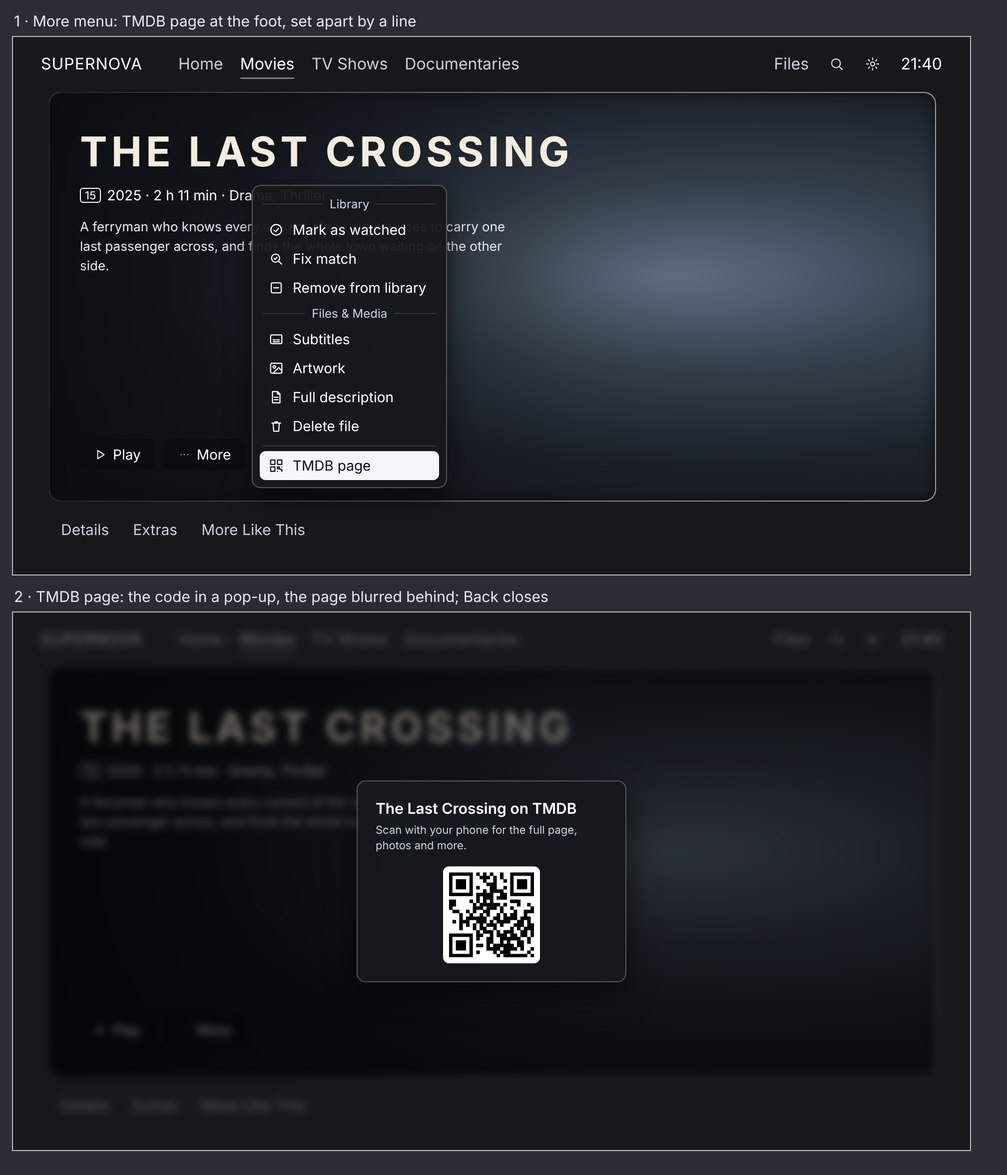
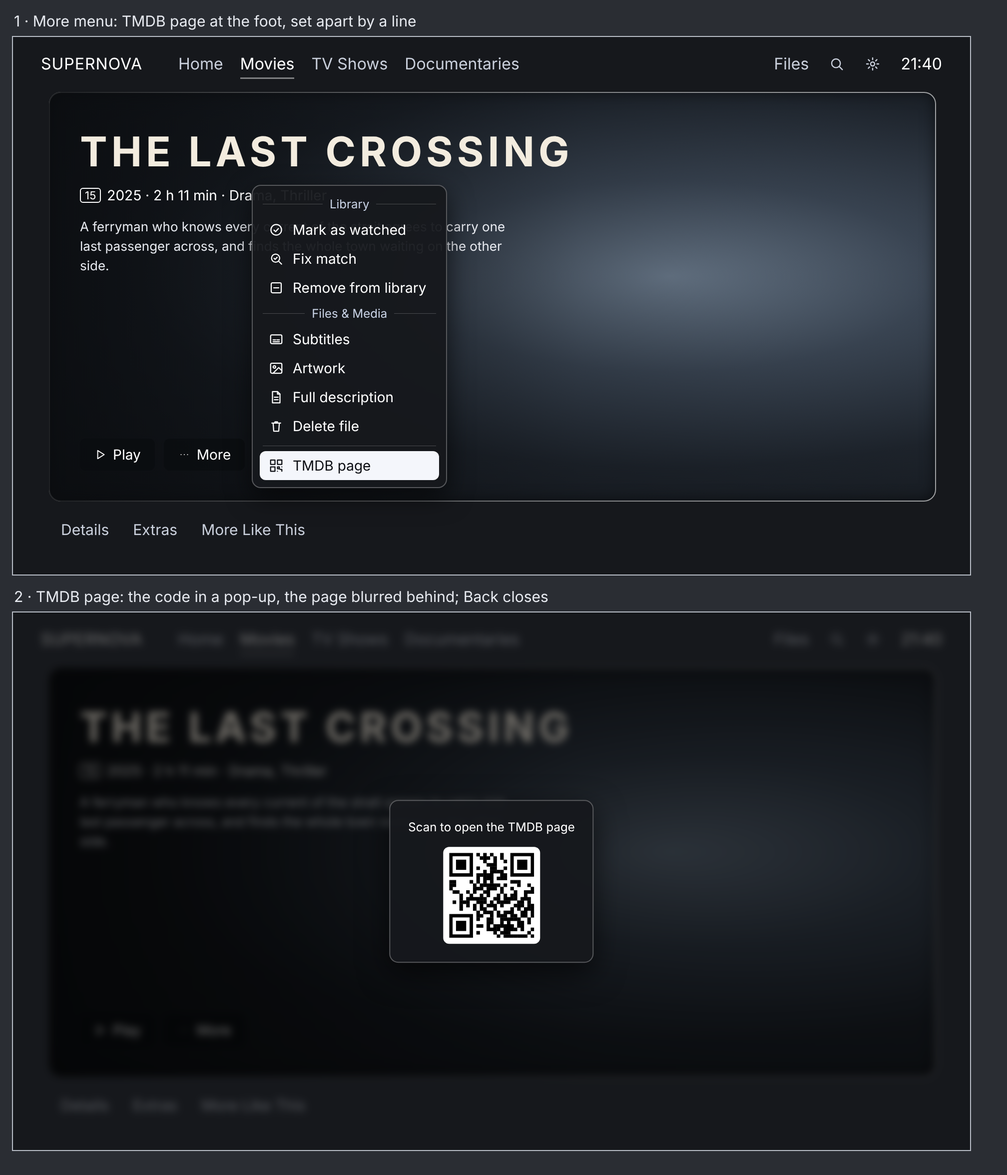
TMDB page pop-up approved: one line and the code
Claude-Session: https://claude.ai/code/session_01FtDZqZQ21LuRxMW43LCXTy

Changed region(s): [[0.375, 0.6828, 0.5938, 0.838]]

diff --git a/docs/design/proposals/files-review-0157-1/mock7.html b/docs/design/proposals/files-review-0157-1/mock7.html
@@ -22,10 +22,10 @@ background:radial-gradient(ellipse at 70% 45%,#6d7d8f 0%,#3a4553 30%,#1d232b 60%
 .gh{display:flex;align-items:center;gap:14px;font-size:24px;color:#C9D3E6;margin:8px 6px}.gh:before,.gh:after{content:"";flex:1;height:1px;background:rgba(255,255,255,.22)}
 .sep{height:1px;background:rgba(255,255,255,.22);margin:10px 6px}
 .blur{position:absolute;inset:0;filter:blur(8px) brightness(.45)}
-.pop{position:absolute;left:50%;top:50%;transform:translate(-50%,-50%);width:540px;background:rgba(22,24,28,.95);border:2px solid rgba(255,255,255,.28);border-radius:18px;padding:36px;box-shadow:0 20px 60px rgba(0,0,0,.6)}
+.pop{position:absolute;left:50%;top:50%;transform:translate(-50%,-50%);width:auto;background:rgba(22,24,28,.95);border:2px solid rgba(255,255,255,.28);border-radius:18px;padding:36px;box-shadow:0 20px 60px rgba(0,0,0,.6)}
 .pop h3{font-size:30px;font-weight:600}.pop p{font-size:22px;color:#C9D3E6;margin:10px 0 26px;line-height:1.4}
 .qr{background:#fff;border-radius:12px;display:flex;align-items:center;justify-content:center;margin:0 auto}
-</style></head><body><p class="cap">1 · More menu: TMDB page at the foot, set apart by a line</p><div class="frame"><div class="top"><span class="b">SUPERNOVA</span><span class="pl"><span>Home</span><span class="on">Movies</span><span>TV Shows</span><span>Documentaries</span></span><span class="r"><span>Files</span><svg width="32" height="32" viewBox="0 0 24 24"><circle cx="11" cy="11" r="6.5"/><path d="M16 16l4.5 4.5"/></svg><svg width="32" height="32" viewBox="0 0 24 24"><circle cx="12" cy="12" r="3"/><path d="M12 3v2.5M12 18.5V21M3 12h2.5M18.5 12H21M5.6 5.6l1.8 1.8M16.6 16.6l1.8 1.8M5.6 18.4l1.8-1.8M16.6 7.4l1.8-1.8"/></svg><span style="color:#fff">21:40</span></span></div>
+.pop .one{font-size:24px;color:#fff;margin:0 0 22px;text-align:center;white-space:nowrap}</style></head><body><p class="cap">1 · More menu: TMDB page at the foot, set apart by a line</p><div class="frame"><div class="top"><span class="b">SUPERNOVA</span><span class="pl"><span>Home</span><span class="on">Movies</span><span>TV Shows</span><span>Documentaries</span></span><span class="r"><span>Files</span><svg width="32" height="32" viewBox="0 0 24 24"><circle cx="11" cy="11" r="6.5"/><path d="M16 16l4.5 4.5"/></svg><svg width="32" height="32" viewBox="0 0 24 24"><circle cx="12" cy="12" r="3"/><path d="M12 3v2.5M12 18.5V21M3 12h2.5M18.5 12H21M5.6 5.6l1.8 1.8M16.6 16.6l1.8 1.8M5.6 18.4l1.8-1.8M16.6 7.4l1.8-1.8"/></svg><span style="color:#fff">21:40</span></span></div>
 <div class="hero"><div class="shade"></div><div class="logo">THE LAST CROSSING</div>
 <div class="meta"><span class="badge">15</span>2025 · 2 h 11 min · Drama, Thriller</div>
 <div class="desc">A ferryman who knows every current of the strait agrees to carry one last passenger across, and finds the whole town waiting on the other side.</div>
@@ -40,4 +40,4 @@ background:radial-gradient(ellipse at 70% 45%,#6d7d8f 0%,#3a4553 30%,#1d232b 60%
 <div class="meta"><span class="badge">15</span>2025 · 2 h 11 min · Drama, Thriller</div>
 <div class="desc">A ferryman who knows every current of the strait agrees to carry one last passenger across, and finds the whole town waiting on the other side.</div>
 <div class="btns"><div class="btn"><svg width="26" height="26" viewBox="0 0 24 24"><path d="M7 4.5v15l12-7.5z"/></svg>Play</div><div class="btn"><svg width="26" height="26" viewBox="0 0 24 24"><path d="M6 12h.01M12 12h.01M18 12h.01"/></svg>More</div></div></div>
-<div class="tabs"><span>Details</span><span>Extras</span><span>More Like This</span></div></div><div class="pop"><h3>The Last Crossing on TMDB</h3><p>Scan with your phone for the full page, photos and more.</p><div class="qr" style="width:194px;height:194px"><svg width="170" height="170" style="stroke:none"><rect x="0.00" y="54.40" width="7.10" height="7.10" fill="#000"/><rect x="0.00" y="61.20" width="7.10" height="7.10" fill="#000"/><rect x="0.00" y="68.00" width="7.10" height="7.10" fill="#000"/><rect x="6.80" y="54.40" width="7.10" height="7.10" fill="#000"/><rect x="6.80" y="61.20" width="7.10" height="7.10" fill="#000"/><rect x="6.80" y="74.80" width="7.10" height="7.10" fill="#000"/><rect x="6.80" y="95.20" width="7.10" height="7.10" fill="#000"/><rect x="13.60" y="74.80" width="7.10" height="7.10" fill="#000"/><rect x="20.40" y="81.60" width="7.10" height="7.10" fill="#000"/><rect x="20.40" y="88.40" width="7.10" height="7.10" fill="#000"/><rect x="20.40" y="95.20" width="7.10" height="7.10" fill="#000"/><rect x="20.40" y="102.00" width="7.10" height="7.10" fill="#000"/><rect x="20.40" y="108.80" width="7.10" height="7.10" fill="#000"/><rect x="27.20" y="95.20" width="7.10" height="7.10" fill="#000"/><rect x="34.00" y="74.80" width="7.10" height="7.10" fill="#000"/><rect x="34.00" y="88.40" width="7.10" height="7.10" fill="#000"/><rect x="34.00" y="95.20" width="7.10" height="7.10" fill="#000"/><rect x="34.00" y="102.00" width="7.10" height="7.10" fill="#000"/><rect x="40.80" y="54.40" width="7.10" height="7.10" fill="#000"/><rect x="40.80" y="81.60" width="7.10" height="7.10" fill="#000"/><rect x="40.80" y="88.40" width="7.10" height="7.10" fill="#000"/><rect x="47.60" y="61.20" width="7.10" height="7.10" fill="#000"/><rect x="47.60" y="68.00" width="7.10" height="7.10" fill="#000"/><rect x="47.60" y="74.80" width="7.10" height="7.10" fill="#000"/><rect x="47.60" y="88.40" width="7.10" height="7.10" fill="#000"/><rect x="47.60" y="102.00" width="7.10" height="7.10" fill="#000"/><rect x="47.60" y="108.80" width="7.10" height="7.10" fill="#000"/><rect x="54.40" y="0.00" width="7.10" height="7.10" fill="#000"/><rect x="54.40" y="27.20" width="7.10" height="7.10" fill="#000"/><rect x="54.40" y="40.80" width="7.10" height="7.10" fill="#000"/><rect x="54.40" y="47.60" width="7.10" height="7.10" fill="#000"/><rect x="54.40" y="54.40" width="7.10" height="7.10" fill="#000"/><rect x="54.40" y="68.00" width="7.10" height="7.10" fill="#000"/><rect x="54.40" y="88.40" width="7.10" height="7.10" fill="#000"/><rect x="54.40" y="95.20" width="7.10" height="7.10" fill="#000"/><rect x="54.40" y="115.60" width="7.10" height="7.10" fill="#000"/><rect x="54.40" y="122.40" width="7.10" height="7.10" fill="#000"/><rect x="54.40" y="129.20" width="7.10" height="7.10" fill="#000"/><rect x="54.40" y="142.80" width="7.10" height="7.10" fill="#000"/><rect x="54.40" y="156.40" width="7.10" height="7.10" fill="#000"/><rect x="61.20" y="6.80" width="7.10" height="7.10" fill="#000"/><rect x="61.20" y="40.80" width="7.10" height="7.10" fill="#000"/><rect x="61.20" y="61.20" width="7.10" height="7.10" fill="#000"/><rect x="61.20" y="68.00" width="7.10" height="7.10" fill="#000"/><rect x="61.20" y="81.60" width="7.10" height="7.10" fill="#000"/><rect x="61.20" y="88.40" width="7.10" height="7.10" fill="#000"/><rect x="61.20" y="95.20" width="7.10" height="7.10" fill="#000"/><rect x="61.20" y="102.00" width="7.10" height="7.10" fill="#000"/><rect x="61.20" y="108.80" width="7.10" height="7.10" fill="#000"/><rect x="61.20" y="122.40" width="7.10" height="7.10" fill="#000"/><rect x="61.20" y="142.80" width="7.10" height="7.10" fill="#000"/><rect x="68.00" y="0.00" width="7.10" height="7.10" fill="#000"/><rect x="68.00" y="6.80" width="7.10" height="7.10" fill="#000"/><rect x="68.00" y="13.60" width="7.10" height="7.10" fill="#000"/><rect x="68.00" y="34.00" width="7.10" height="7.10" fill="#000"/><rect x="68.00" y="40.80" width="7.10" height="7.10" fill="#000"/><rect x="68.00" y="47.60" width="7.10" height="7.10" fill="#000"/><rect x="68.00" y="54.40" width="7.10" height="7.10" fill="#000"/><rect x="68.00" y="61.20" width="7.10" height="7.10" fill="#000"/><rect x="68.00" y="74.80" width="7.10" height="7.10" fill="#000"/><rect x="68.00" y="88.40" width="7.10" height="7.10" fill="#000"/><rect x="68.00" y="95.20" width="7.10" height="7.10" fill="#000"/><rect x="68.00" y="108.80" width="7.10" height="7.10" fill="#000"/><rect x="68.00" y="115.60" width="7.10" height="7.10" fill="#000"/><rect x="74.80" y="6.80" width="7.10" height="7.10" fill="#000"/><rect x="74.80" y="20.40" width="7.10" height="7.10" fill="#000"/><rect x="74.80" y="40.80" width="7.10" height="7.10" fill="#000"/><rect x="74.80" y="47.60" width="7.10" height="7.10" fill="#000"/><rect x="74.80" y="61.20" width="7.10" height="7.10" fill="#000"/><rect x="74.80" y="68.00" width="7.10" height="7.10" fill="#000"/><rect x="74.80" y="74.80" width="7.10" height="7.10" fill="#000"/><rect x="74.80" y="81.60" width="7.10" height="7.10" fill="#000"/><rect x="74.80" y="102.00" width="7.10" height="7.10" fill="#000"/><rect x="74.80" y="115.60" width="7.10" height="7.10" fill="#000"/><rect x="74.80" y="129.20" width="7.10" height="7.10" fill="#000"/><rect x="74.80" y="136.00" width="7.10" height="7.10" fill="#000"/><rect x="74.80" y="142.80" width="7.10" height="7.10" fill="#000"/><rect x="74.80" y="149.60" width="7.10" height="7.10" fill="#000"/><rect x="81.60" y="0.00" width="7.10" height="7.10" fill="#000"/><rect x="81.60" y="20.40" width="7.10" height="7.10" fill="#000"/><rect x="81.60" y="27.20" width="7.10" height="7.10" fill="#000"/><rect x="81.60" y="34.00" width="7.10" height="7.10" fill="#000"/><rect x="81.60" y="40.80" width="7.10" height="7.10" fill="#000"/><rect x="81.60" y="47.60" width="7.10" height="7.10" fill="#000"/><rect x="81.60" y="54.40" width="7.10" height="7.10" fill="#000"/><rect x="81.60" y="61.20" width="7.10" height="7.10" fill="#000"/><rect x="81.60" y="68.00" width="7.10" height="7.10" fill="#000"/><rect x="81.60" y="95.20" width="7.10" height="7.10" fill="#000"/><rect x="81.60" y="102.00" width="7.10" height="7.10" fill="#000"/><rect x="81.60" y="115.60" width="7.10" height="7.10" fill="#000"/><rect x="81.60" y="122.40" width="7.10" height="7.10" fill="#000"/><rect x="81.60" y="129.20" width="7.10" height="7.10" fill="#000"/><rect x="81.60" y="136.00" width="7.10" height="7.10" fill="#000"/><rect x="81.60" y="149.60" width="7.10" height="7.10" fill="#000"/><rect x="88.40" y="6.80" width="7.10" height="7.10" fill="#000"/><rect x="88.40" y="13.60" width="7.10" height="7.10" fill="#000"/><rect x="88.40" y="20.40" width="7.10" height="7.10" fill="#000"/><rect x="88.40" y="27.20" width="7.10" height="7.10" fill="#000"/><rect x="88.40" y="34.00" width="7.10" height="7.10" fill="#000"/><rect x="88.40" y="61.20" width="7.10" height="7.10" fill="#000"/><rect x="88.40" y="68.00" width="7.10" height="7.10" fill="#000"/><rect x="88.40" y="88.40" width="7.10" height="7.10" fill="#000"/><rect x="88.40" y="102.00" width="7.10" height="7.10" fill="#000"/><rect x="88.40" y="108.80" width="7.10" height="7.10" fill="#000"/><rect x="88.40" y="142.80" width="7.10" height="7.10" fill="#000"/><rect x="88.40" y="149.60" width="7.10" height="7.10" fill="#000"/><rect x="88.40" y="156.40" width="7.10" height="7.10" fill="#000"/><rect x="95.20" y="34.00" width="7.10" height="7.10" fill="#000"/><rect x="95.20" y="47.60" width="7.10" height="7.10" fill="#000"/><rect x="95.20" y="61.20" width="7.10" height="7.10" fill="#000"/><rect x="95.20" y="81.60" width="7.10" height="7.10" fill="#000"/><rect x="95.20" y="88.40" width="7.10" height="7.10" fill="#000"/><rect x="95.20" y="95.20" width="7.10" height="7.10" fill="#000"/><rect x="95.20" y="115.60" width="7.10" height="7.10" fill="#000"/><rect x="95.20" y="122.40" width="7.10" height="7.10" fill="#000"/><rect x="95.20" y="142.80" width="7.10" height="7.10" fill="#000"/><rect x="95.20" y="149.60" width="7.10" height="7.10" fill="#000"/><rect x="95.20" y="163.20" width="7.10" height="7.10" fill="#000"/><rect x="102.00" y="0.00" width="7.10" height="7.10" fill="#000"/><rect x="102.00" y="6.80" width="7.10" height="7.10" fill="#000"/><rect x="102.00" y="34.00" width="7.10" height="7.10" fill="#000"/><rect x="102.00" y="40.80" width="7.10" height="7.10" fill="#000"/><rect x="102.00" y="47.60" width="7.10" height="7.10" fill="#000"/><rect x="102.00" y="68.00" width="7.10" height="7.10" fill="#000"/><rect x="102.00" y="74.80" width="7.10" height="7.10" fill="#000"/><rect x="102.00" y="95.20" width="7.10" height="7.10" fill="#000"/><rect x="102.00" y="102.00" width="7.10" height="7.10" fill="#000"/><rect x="102.00" y="122.40" width="7.10" height="7.10" fill="#000"/><rect x="102.00" y="129.20" width="7.10" height="7.10" fill="#000"/><rect x="102.00" y="136.00" width="7.10" height="7.10" fill="#000"/><rect x="102.00" y="142.80" width="7.10" height="7.10" fill="#000"/><rect x="102.00" y="156.40" width="7.10" height="7.10" fill="#000"/><rect x="108.80" y="13.60" width="7.10" height="7.10" fill="#000"/><rect x="108.80" y="27.20" width="7.10" height="7.10" fill="#000"/><rect x="108.80" y="40.80" width="7.10" height="7.10" fill="#000"/><rect x="108.80" y="47.60" width="7.10" height="7.10" fill="#000"/><rect x="108.80" y="61.20" width="7.10" height="7.10" fill="#000"/><rect x="108.80" y="81.60" width="7.10" height="7.10" fill="#000"/><rect x="108.80" y="88.40" width="7.10" height="7.10" fill="#000"/><rect x="108.80" y="95.20" width="7.10" height="7.10" fill="#000"/><rect x="108.80" y="115.60" width="7.10" height="7.10" fill="#000"/><rect x="108.80" y="122.40" width="7.10" height="7.10" fill="#000"/><rect x="108.80" y="129.20" width="7.10" height="7.10" fill="#000"/><rect x="108.80" y="142.80" width="7.10" height="7.10" fill="#000"/><rect x="108.80" y="149.60" width="7.10" height="7.10" fill="#000"/><rect x="108.80" y="156.40" width="7.10" height="7.10" fill="#000"/><rect x="108.80" y="163.20" width="7.10" height="7.10" fill="#000"/><rect x="115.60" y="88.40" width="7.10" height="7.10" fill="#000"/><rect x="115.60" y="95.20" width="7.10" height="7.10" fill="#000"/><rect x="115.60" y="115.60" width="7.10" height="7.10" fill="#000"/><rect x="115.60" y="129.20" width="7.10" height="7.10" fill="#000"/><rect x="115.60" y="136.00" width="7.10" height="7.10" fill="#000"/><rect x="115.60" y="142.80" width="7.10" height="7.10" fill="#000"/><rect x="115.60" y="149.60" width="7.10" height="7.10" fill="#000"/><rect x="115.60" y="156.40" width="7.10" height="7.10" fill="#000"/><rect x="115.60" y="163.20" width="7.10" height="7.10" fill="#000"/><rect x="122.40" y="54.40" width="7.10" height="7.10" fill="#000"/><rect x="122.40" y="68.00" width="7.10" height="7.10" fill="#000"/><rect x="122.40" y="81.60" width="7.10" height="7.10" fill="#000"/><rect x="122.40" y="88.40" width="7.10" height="7.10" fill="#000"/><rect x="122.40" y="108.80" width="7.10" height="7.10" fill="#000"/><rect x="122.40" y="115.60" width="7.10" height="7.10" fill="#000"/><rect x="122.40" y="122.40" width="7.10" height="7.10" fill="#000"/><rect x="122.40" y="129.20" width="7.10" height="7.10" fill="#000"/><rect x="122.40" y="142.80" width="7.10" height="7.10" fill="#000"/><rect x="122.40" y="149.60" width="7.10" height="7.10" fill="#000"/><rect x="122.40" y="163.20" width="7.10" height="7.10" fill="#000"/><rect x="129.20" y="54.40" width="7.10" height="7.10" fill="#000"/><rect x="129.20" y="74.80" width="7.10" height="7.10" fill="#000"/><rect x="129.20" y="81.60" width="7.10" height="7.10" fill="#000"/><rect x="129.20" y="88.40" width="7.10" height="7.10" fill="#000"/><rect x="129.20" y="102.00" width="7.10" height="7.10" fill="#000"/><rect x="129.20" y="122.40" width="7.10" height="7.10" fill="#000"/><rect x="129.20" y="129.20" width="7.10" height="7.10" fill="#000"/><rect x="129.20" y="149.60" width="7.10" height="7.10" fill="#000"/><rect x="129.20" y="163.20" width="7.10" height="7.10" fill="#000"/><rect x="136.00" y="54.40" width="7.10" height="7.10" fill="#000"/><rect x="136.00" y="61.20" width="7.10" height="7.10" fill="#000"/><rect x="136.00" y="95.20" width="7.10" height="7.10" fill="#000"/><rect x="136.00" y="102.00" width="7.10" height="7.10" fill="#000"/><rect x="136.00" y="108.80" width="7.10" height="7.10" fill="#000"/><rect x="136.00" y="129.20" width="7.10" height="7.10" fill="#000"/><rect x="136.00" y="136.00" width="7.10" height="7.10" fill="#000"/><rect x="136.00" y="142.80" width="7.10" height="7.10" fill="#000"/><rect x="136.00" y="163.20" width="7.10" height="7.10" fill="#000"/><rect x="142.80" y="88.40" width="7.10" height="7.10" fill="#000"/><rect x="142.80" y="95.20" width="7.10" height="7.10" fill="#000"/><rect x="142.80" y="102.00" width="7.10" height="7.10" fill="#000"/><rect x="142.80" y="115.60" width="7.10" height="7.10" fill="#000"/><rect x="142.80" y="122.40" width="7.10" height="7.10" fill="#000"/><rect x="142.80" y="136.00" width="7.10" height="7.10" fill="#000"/><rect x="142.80" y="142.80" width="7.10" height="7.10" fill="#000"/><rect x="142.80" y="149.60" width="7.10" height="7.10" fill="#000"/><rect x="142.80" y="163.20" width="7.10" height="7.10" fill="#000"/><rect x="149.60" y="74.80" width="7.10" height="7.10" fill="#000"/><rect x="149.60" y="81.60" width="7.10" height="7.10" fill="#000"/><rect x="149.60" y="88.40" width="7.10" height="7.10" fill="#000"/><rect x="149.60" y="108.80" width="7.10" height="7.10" fill="#000"/><rect x="149.60" y="115.60" width="7.10" height="7.10" fill="#000"/><rect x="149.60" y="122.40" width="7.10" height="7.10" fill="#000"/><rect x="149.60" y="163.20" width="7.10" height="7.10" fill="#000"/><rect x="156.40" y="61.20" width="7.10" height="7.10" fill="#000"/><rect x="156.40" y="74.80" width="7.10" height="7.10" fill="#000"/><rect x="156.40" y="88.40" width="7.10" height="7.10" fill="#000"/><rect x="156.40" y="95.20" width="7.10" height="7.10" fill="#000"/><rect x="156.40" y="102.00" width="7.10" height="7.10" fill="#000"/><rect x="156.40" y="108.80" width="7.10" height="7.10" fill="#000"/><rect x="156.40" y="129.20" width="7.10" height="7.10" fill="#000"/><rect x="156.40" y="136.00" width="7.10" height="7.10" fill="#000"/><rect x="156.40" y="156.40" width="7.10" height="7.10" fill="#000"/><rect x="163.20" y="68.00" width="7.10" height="7.10" fill="#000"/><rect x="163.20" y="74.80" width="7.10" height="7.10" fill="#000"/><rect x="163.20" y="102.00" width="7.10" height="7.10" fill="#000"/><rect x="163.20" y="108.80" width="7.10" height="7.10" fill="#000"/><rect x="163.20" y="115.60" width="7.10" height="7.10" fill="#000"/><rect x="163.20" y="122.40" width="7.10" height="7.10" fill="#000"/><rect x="163.20" y="149.60" width="7.10" height="7.10" fill="#000"/><rect x="163.20" y="163.20" width="7.10" height="7.10" fill="#000"/><rect x="0.0" y="0.0" width="47.6" height="47.6" fill="#000"/><rect x="6.8" y="6.8" width="34.0" height="34.0" fill="#fff"/><rect x="13.6" y="13.6" width="20.4" height="20.4" fill="#000"/><rect x="122.39999999999999" y="0.0" width="47.6" height="47.6" fill="#000"/><rect x="129.2" y="6.8" width="34.0" height="34.0" fill="#fff"/><rect x="136.0" y="13.6" width="20.4" height="20.4" fill="#000"/><rect x="0.0" y="122.39999999999999" width="47.6" height="47.6" fill="#000"/><rect x="6.8" y="129.2" width="34.0" height="34.0" fill="#fff"/><rect x="13.6" y="136.0" width="20.4" height="20.4" fill="#000"/></svg></div></div></div></body></html>
+<div class="tabs"><span>Details</span><span>Extras</span><span>More Like This</span></div></div><div class="pop"><p class="one">Scan to open the TMDB page</p><div class="qr" style="width:194px;height:194px"><svg width="170" height="170" style="stroke:none"><rect x="0.00" y="54.40" width="7.10" height="7.10" fill="#000"/><rect x="0.00" y="61.20" width="7.10" height="7.10" fill="#000"/><rect x="0.00" y="68.00" width="7.10" height="7.10" fill="#000"/><rect x="6.80" y="54.40" width="7.10" height="7.10" fill="#000"/><rect x="6.80" y="61.20" width="7.10" height="7.10" fill="#000"/><rect x="6.80" y="74.80" width="7.10" height="7.10" fill="#000"/><rect x="6.80" y="95.20" width="7.10" height="7.10" fill="#000"/><rect x="13.60" y="74.80" width="7.10" height="7.10" fill="#000"/><rect x="20.40" y="81.60" width="7.10" height="7.10" fill="#000"/><rect x="20.40" y="88.40" width="7.10" height="7.10" fill="#000"/><rect x="20.40" y="95.20" width="7.10" height="7.10" fill="#000"/><rect x="20.40" y="102.00" width="7.10" height="7.10" fill="#000"/><rect x="20.40" y="108.80" width="7.10" height="7.10" fill="#000"/><rect x="27.20" y="95.20" width="7.10" height="7.10" fill="#000"/><rect x="34.00" y="74.80" width="7.10" height="7.10" fill="#000"/><rect x="34.00" y="88.40" width="7.10" height="7.10" fill="#000"/><rect x="34.00" y="95.20" width="7.10" height="7.10" fill="#000"/><rect x="34.00" y="102.00" width="7.10" height="7.10" fill="#000"/><rect x="40.80" y="54.40" width="7.10" height="7.10" fill="#000"/><rect x="40.80" y="81.60" width="7.10" height="7.10" fill="#000"/><rect x="40.80" y="88.40" width="7.10" height="7.10" fill="#000"/><rect x="47.60" y="61.20" width="7.10" height="7.10" fill="#000"/><rect x="47.60" y="68.00" width="7.10" height="7.10" fill="#000"/><rect x="47.60" y="74.80" width="7.10" height="7.10" fill="#000"/><rect x="47.60" y="88.40" width="7.10" height="7.10" fill="#000"/><rect x="47.60" y="102.00" width="7.10" height="7.10" fill="#000"/><rect x="47.60" y="108.80" width="7.10" height="7.10" fill="#000"/><rect x="54.40" y="0.00" width="7.10" height="7.10" fill="#000"/><rect x="54.40" y="27.20" width="7.10" height="7.10" fill="#000"/><rect x="54.40" y="40.80" width="7.10" height="7.10" fill="#000"/><rect x="54.40" y="47.60" width="7.10" height="7.10" fill="#000"/><rect x="54.40" y="54.40" width="7.10" height="7.10" fill="#000"/><rect x="54.40" y="68.00" width="7.10" height="7.10" fill="#000"/><rect x="54.40" y="88.40" width="7.10" height="7.10" fill="#000"/><rect x="54.40" y="95.20" width="7.10" height="7.10" fill="#000"/><rect x="54.40" y="115.60" width="7.10" height="7.10" fill="#000"/><rect x="54.40" y="122.40" width="7.10" height="7.10" fill="#000"/><rect x="54.40" y="129.20" width="7.10" height="7.10" fill="#000"/><rect x="54.40" y="142.80" width="7.10" height="7.10" fill="#000"/><rect x="54.40" y="156.40" width="7.10" height="7.10" fill="#000"/><rect x="61.20" y="6.80" width="7.10" height="7.10" fill="#000"/><rect x="61.20" y="40.80" width="7.10" height="7.10" fill="#000"/><rect x="61.20" y="61.20" width="7.10" height="7.10" fill="#000"/><rect x="61.20" y="68.00" width="7.10" height="7.10" fill="#000"/><rect x="61.20" y="81.60" width="7.10" height="7.10" fill="#000"/><rect x="61.20" y="88.40" width="7.10" height="7.10" fill="#000"/><rect x="61.20" y="95.20" width="7.10" height="7.10" fill="#000"/><rect x="61.20" y="102.00" width="7.10" height="7.10" fill="#000"/><rect x="61.20" y="108.80" width="7.10" height="7.10" fill="#000"/><rect x="61.20" y="122.40" width="7.10" height="7.10" fill="#000"/><rect x="61.20" y="142.80" width="7.10" height="7.10" fill="#000"/><rect x="68.00" y="0.00" width="7.10" height="7.10" fill="#000"/><rect x="68.00" y="6.80" width="7.10" height="7.10" fill="#000"/><rect x="68.00" y="13.60" width="7.10" height="7.10" fill="#000"/><rect x="68.00" y="34.00" width="7.10" height="7.10" fill="#000"/><rect x="68.00" y="40.80" width="7.10" height="7.10" fill="#000"/><rect x="68.00" y="47.60" width="7.10" height="7.10" fill="#000"/><rect x="68.00" y="54.40" width="7.10" height="7.10" fill="#000"/><rect x="68.00" y="61.20" width="7.10" height="7.10" fill="#000"/><rect x="68.00" y="74.80" width="7.10" height="7.10" fill="#000"/><rect x="68.00" y="88.40" width="7.10" height="7.10" fill="#000"/><rect x="68.00" y="95.20" width="7.10" height="7.10" fill="#000"/><rect x="68.00" y="108.80" width="7.10" height="7.10" fill="#000"/><rect x="68.00" y="115.60" width="7.10" height="7.10" fill="#000"/><rect x="74.80" y="6.80" width="7.10" height="7.10" fill="#000"/><rect x="74.80" y="20.40" width="7.10" height="7.10" fill="#000"/><rect x="74.80" y="40.80" width="7.10" height="7.10" fill="#000"/><rect x="74.80" y="47.60" width="7.10" height="7.10" fill="#000"/><rect x="74.80" y="61.20" width="7.10" height="7.10" fill="#000"/><rect x="74.80" y="68.00" width="7.10" height="7.10" fill="#000"/><rect x="74.80" y="74.80" width="7.10" height="7.10" fill="#000"/><rect x="74.80" y="81.60" width="7.10" height="7.10" fill="#000"/><rect x="74.80" y="102.00" width="7.10" height="7.10" fill="#000"/><rect x="74.80" y="115.60" width="7.10" height="7.10" fill="#000"/><rect x="74.80" y="129.20" width="7.10" height="7.10" fill="#000"/><rect x="74.80" y="136.00" width="7.10" height="7.10" fill="#000"/><rect x="74.80" y="142.80" width="7.10" height="7.10" fill="#000"/><rect x="74.80" y="149.60" width="7.10" height="7.10" fill="#000"/><rect x="81.60" y="0.00" width="7.10" height="7.10" fill="#000"/><rect x="81.60" y="20.40" width="7.10" height="7.10" fill="#000"/><rect x="81.60" y="27.20" width="7.10" height="7.10" fill="#000"/><rect x="81.60" y="34.00" width="7.10" height="7.10" fill="#000"/><rect x="81.60" y="40.80" width="7.10" height="7.10" fill="#000"/><rect x="81.60" y="47.60" width="7.10" height="7.10" fill="#000"/><rect x="81.60" y="54.40" width="7.10" height="7.10" fill="#000"/><rect x="81.60" y="61.20" width="7.10" height="7.10" fill="#000"/><rect x="81.60" y="68.00" width="7.10" height="7.10" fill="#000"/><rect x="81.60" y="95.20" width="7.10" height="7.10" fill="#000"/><rect x="81.60" y="102.00" width="7.10" height="7.10" fill="#000"/><rect x="81.60" y="115.60" width="7.10" height="7.10" fill="#000"/><rect x="81.60" y="122.40" width="7.10" height="7.10" fill="#000"/><rect x="81.60" y="129.20" width="7.10" height="7.10" fill="#000"/><rect x="81.60" y="136.00" width="7.10" height="7.10" fill="#000"/><rect x="81.60" y="149.60" width="7.10" height="7.10" fill="#000"/><rect x="88.40" y="6.80" width="7.10" height="7.10" fill="#000"/><rect x="88.40" y="13.60" width="7.10" height="7.10" fill="#000"/><rect x="88.40" y="20.40" width="7.10" height="7.10" fill="#000"/><rect x="88.40" y="27.20" width="7.10" height="7.10" fill="#000"/><rect x="88.40" y="34.00" width="7.10" height="7.10" fill="#000"/><rect x="88.40" y="61.20" width="7.10" height="7.10" fill="#000"/><rect x="88.40" y="68.00" width="7.10" height="7.10" fill="#000"/><rect x="88.40" y="88.40" width="7.10" height="7.10" fill="#000"/><rect x="88.40" y="102.00" width="7.10" height="7.10" fill="#000"/><rect x="88.40" y="108.80" width="7.10" height="7.10" fill="#000"/><rect x="88.40" y="142.80" width="7.10" height="7.10" fill="#000"/><rect x="88.40" y="149.60" width="7.10" height="7.10" fill="#000"/><rect x="88.40" y="156.40" width="7.10" height="7.10" fill="#000"/><rect x="95.20" y="34.00" width="7.10" height="7.10" fill="#000"/><rect x="95.20" y="47.60" width="7.10" height="7.10" fill="#000"/><rect x="95.20" y="61.20" width="7.10" height="7.10" fill="#000"/><rect x="95.20" y="81.60" width="7.10" height="7.10" fill="#000"/><rect x="95.20" y="88.40" width="7.10" height="7.10" fill="#000"/><rect x="95.20" y="95.20" width="7.10" height="7.10" fill="#000"/><rect x="95.20" y="115.60" width="7.10" height="7.10" fill="#000"/><rect x="95.20" y="122.40" width="7.10" height="7.10" fill="#000"/><rect x="95.20" y="142.80" width="7.10" height="7.10" fill="#000"/><rect x="95.20" y="149.60" width="7.10" height="7.10" fill="#000"/><rect x="95.20" y="163.20" width="7.10" height="7.10" fill="#000"/><rect x="102.00" y="0.00" width="7.10" height="7.10" fill="#000"/><rect x="102.00" y="6.80" width="7.10" height="7.10" fill="#000"/><rect x="102.00" y="34.00" width="7.10" height="7.10" fill="#000"/><rect x="102.00" y="40.80" width="7.10" height="7.10" fill="#000"/><rect x="102.00" y="47.60" width="7.10" height="7.10" fill="#000"/><rect x="102.00" y="68.00" width="7.10" height="7.10" fill="#000"/><rect x="102.00" y="74.80" width="7.10" height="7.10" fill="#000"/><rect x="102.00" y="95.20" width="7.10" height="7.10" fill="#000"/><rect x="102.00" y="102.00" width="7.10" height="7.10" fill="#000"/><rect x="102.00" y="122.40" width="7.10" height="7.10" fill="#000"/><rect x="102.00" y="129.20" width="7.10" height="7.10" fill="#000"/><rect x="102.00" y="136.00" width="7.10" height="7.10" fill="#000"/><rect x="102.00" y="142.80" width="7.10" height="7.10" fill="#000"/><rect x="102.00" y="156.40" width="7.10" height="7.10" fill="#000"/><rect x="108.80" y="13.60" width="7.10" height="7.10" fill="#000"/><rect x="108.80" y="27.20" width="7.10" height="7.10" fill="#000"/><rect x="108.80" y="40.80" width="7.10" height="7.10" fill="#000"/><rect x="108.80" y="47.60" width="7.10" height="7.10" fill="#000"/><rect x="108.80" y="61.20" width="7.10" height="7.10" fill="#000"/><rect x="108.80" y="81.60" width="7.10" height="7.10" fill="#000"/><rect x="108.80" y="88.40" width="7.10" height="7.10" fill="#000"/><rect x="108.80" y="95.20" width="7.10" height="7.10" fill="#000"/><rect x="108.80" y="115.60" width="7.10" height="7.10" fill="#000"/><rect x="108.80" y="122.40" width="7.10" height="7.10" fill="#000"/><rect x="108.80" y="129.20" width="7.10" height="7.10" fill="#000"/><rect x="108.80" y="142.80" width="7.10" height="7.10" fill="#000"/><rect x="108.80" y="149.60" width="7.10" height="7.10" fill="#000"/><rect x="108.80" y="156.40" width="7.10" height="7.10" fill="#000"/><rect x="108.80" y="163.20" width="7.10" height="7.10" fill="#000"/><rect x="115.60" y="88.40" width="7.10" height="7.10" fill="#000"/><rect x="115.60" y="95.20" width="7.10" height="7.10" fill="#000"/><rect x="115.60" y="115.60" width="7.10" height="7.10" fill="#000"/><rect x="115.60" y="129.20" width="7.10" height="7.10" fill="#000"/><rect x="115.60" y="136.00" width="7.10" height="7.10" fill="#000"/><rect x="115.60" y="142.80" width="7.10" height="7.10" fill="#000"/><rect x="115.60" y="149.60" width="7.10" height="7.10" fill="#000"/><rect x="115.60" y="156.40" width="7.10" height="7.10" fill="#000"/><rect x="115.60" y="163.20" width="7.10" height="7.10" fill="#000"/><rect x="122.40" y="54.40" width="7.10" height="7.10" fill="#000"/><rect x="122.40" y="68.00" width="7.10" height="7.10" fill="#000"/><rect x="122.40" y="81.60" width="7.10" height="7.10" fill="#000"/><rect x="122.40" y="88.40" width="7.10" height="7.10" fill="#000"/><rect x="122.40" y="108.80" width="7.10" height="7.10" fill="#000"/><rect x="122.40" y="115.60" width="7.10" height="7.10" fill="#000"/><rect x="122.40" y="122.40" width="7.10" height="7.10" fill="#000"/><rect x="122.40" y="129.20" width="7.10" height="7.10" fill="#000"/><rect x="122.40" y="142.80" width="7.10" height="7.10" fill="#000"/><rect x="122.40" y="149.60" width="7.10" height="7.10" fill="#000"/><rect x="122.40" y="163.20" width="7.10" height="7.10" fill="#000"/><rect x="129.20" y="54.40" width="7.10" height="7.10" fill="#000"/><rect x="129.20" y="74.80" width="7.10" height="7.10" fill="#000"/><rect x="129.20" y="81.60" width="7.10" height="7.10" fill="#000"/><rect x="129.20" y="88.40" width="7.10" height="7.10" fill="#000"/><rect x="129.20" y="102.00" width="7.10" height="7.10" fill="#000"/><rect x="129.20" y="122.40" width="7.10" height="7.10" fill="#000"/><rect x="129.20" y="129.20" width="7.10" height="7.10" fill="#000"/><rect x="129.20" y="149.60" width="7.10" height="7.10" fill="#000"/><rect x="129.20" y="163.20" width="7.10" height="7.10" fill="#000"/><rect x="136.00" y="54.40" width="7.10" height="7.10" fill="#000"/><rect x="136.00" y="61.20" width="7.10" height="7.10" fill="#000"/><rect x="136.00" y="95.20" width="7.10" height="7.10" fill="#000"/><rect x="136.00" y="102.00" width="7.10" height="7.10" fill="#000"/><rect x="136.00" y="108.80" width="7.10" height="7.10" fill="#000"/><rect x="136.00" y="129.20" width="7.10" height="7.10" fill="#000"/><rect x="136.00" y="136.00" width="7.10" height="7.10" fill="#000"/><rect x="136.00" y="142.80" width="7.10" height="7.10" fill="#000"/><rect x="136.00" y="163.20" width="7.10" height="7.10" fill="#000"/><rect x="142.80" y="88.40" width="7.10" height="7.10" fill="#000"/><rect x="142.80" y="95.20" width="7.10" height="7.10" fill="#000"/><rect x="142.80" y="102.00" width="7.10" height="7.10" fill="#000"/><rect x="142.80" y="115.60" width="7.10" height="7.10" fill="#000"/><rect x="142.80" y="122.40" width="7.10" height="7.10" fill="#000"/><rect x="142.80" y="136.00" width="7.10" height="7.10" fill="#000"/><rect x="142.80" y="142.80" width="7.10" height="7.10" fill="#000"/><rect x="142.80" y="149.60" width="7.10" height="7.10" fill="#000"/><rect x="142.80" y="163.20" width="7.10" height="7.10" fill="#000"/><rect x="149.60" y="74.80" width="7.10" height="7.10" fill="#000"/><rect x="149.60" y="81.60" width="7.10" height="7.10" fill="#000"/><rect x="149.60" y="88.40" width="7.10" height="7.10" fill="#000"/><rect x="149.60" y="108.80" width="7.10" height="7.10" fill="#000"/><rect x="149.60" y="115.60" width="7.10" height="7.10" fill="#000"/><rect x="149.60" y="122.40" width="7.10" height="7.10" fill="#000"/><rect x="149.60" y="163.20" width="7.10" height="7.10" fill="#000"/><rect x="156.40" y="61.20" width="7.10" height="7.10" fill="#000"/><rect x="156.40" y="74.80" width="7.10" height="7.10" fill="#000"/><rect x="156.40" y="88.40" width="7.10" height="7.10" fill="#000"/><rect x="156.40" y="95.20" width="7.10" height="7.10" fill="#000"/><rect x="156.40" y="102.00" width="7.10" height="7.10" fill="#000"/><rect x="156.40" y="108.80" width="7.10" height="7.10" fill="#000"/><rect x="156.40" y="129.20" width="7.10" height="7.10" fill="#000"/><rect x="156.40" y="136.00" width="7.10" height="7.10" fill="#000"/><rect x="156.40" y="156.40" width="7.10" height="7.10" fill="#000"/><rect x="163.20" y="68.00" width="7.10" height="7.10" fill="#000"/><rect x="163.20" y="74.80" width="7.10" height="7.10" fill="#000"/><rect x="163.20" y="102.00" width="7.10" height="7.10" fill="#000"/><rect x="163.20" y="108.80" width="7.10" height="7.10" fill="#000"/><rect x="163.20" y="115.60" width="7.10" height="7.10" fill="#000"/><rect x="163.20" y="122.40" width="7.10" height="7.10" fill="#000"/><rect x="163.20" y="149.60" width="7.10" height="7.10" fill="#000"/><rect x="163.20" y="163.20" width="7.10" height="7.10" fill="#000"/><rect x="0.0" y="0.0" width="47.6" height="47.6" fill="#000"/><rect x="6.8" y="6.8" width="34.0" height="34.0" fill="#fff"/><rect x="13.6" y="13.6" width="20.4" height="20.4" fill="#000"/><rect x="122.39999999999999" y="0.0" width="47.6" height="47.6" fill="#000"/><rect x="129.2" y="6.8" width="34.0" height="34.0" fill="#fff"/><rect x="136.0" y="13.6" width="20.4" height="20.4" fill="#000"/><rect x="0.0" y="122.39999999999999" width="47.6" height="47.6" fill="#000"/><rect x="6.8" y="129.2" width="34.0" height="34.0" fill="#fff"/><rect x="13.6" y="136.0" width="20.4" height="20.4" fill="#000"/></svg></div></div></div></body></html>

diff --git a/docs/0.157/REVIEW_0157_1.md b/docs/0.157/REVIEW_0157_1.md
@@ -219,7 +219,8 @@ settled; "To decide" waits for the owner. Photos are taken at an angle: alignmen
   each, larger portraits and roomier columns:** redrawn as B2 (`06`). New idea: a QR code to the title's TMDB page;
   two places drawn in `06`: (1) under Reception on the page, (2) More › TMDB page opens a pop-up with the one code
   (RULES §20). Idea 2 drawn as a flow (`07`): More menu, TMDB page at its foot set apart by a line, then the pop-up
-  with the page blurred behind; Back closes. Awaiting the owner.
+  with the page blurred behind; Back closes. **Approved 17 Nov** with one change: the pop-up has no title, only one
+  line, "Scan to open the TMDB page", above the code (sized to its content).
 - **D19. Trailers (owner, 17 Nov):** play in the pop-up with no title bar (no "Open YouTube" / Close) and no YouTube
   controls; always the highest quality. Note: YouTube's embedded player can hide its controls; quality can only be
   requested (it follows the player's size), so the pop-up should be large enough for HD. Back closes it.
